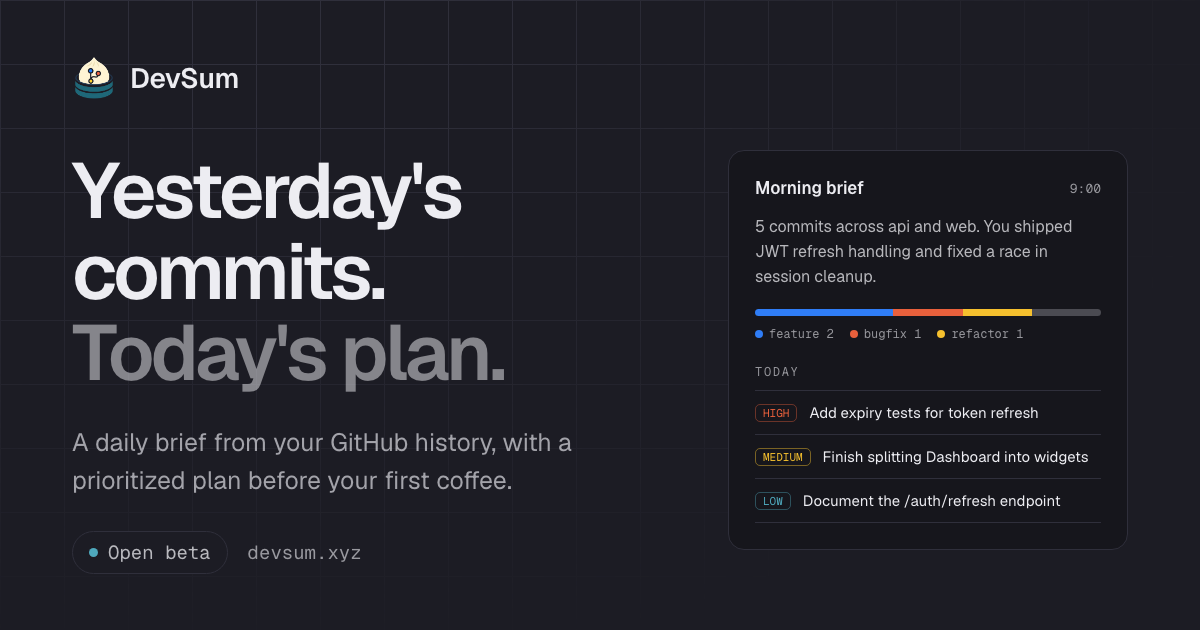
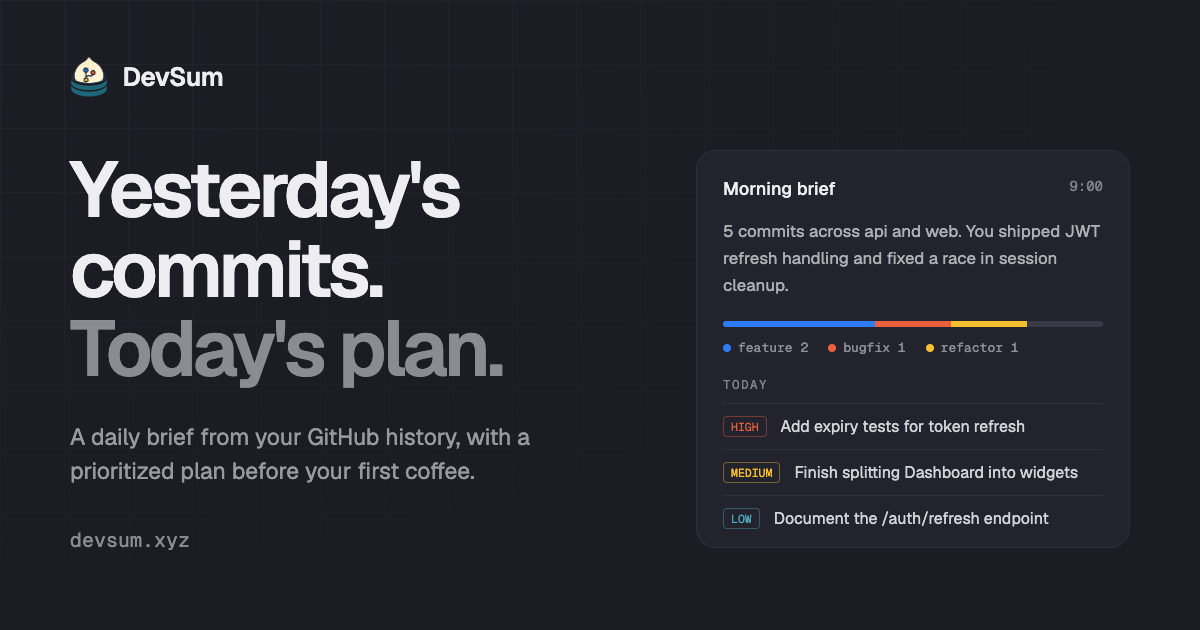
chore(copy): remove open beta and free-to-use language
Drops the hero badge, footer label and pricing box that framed DevSum as a free beta, softens the Terms availability wording, and regenerates the social preview image without the beta pill.

diff --git a/frontend/src/components/Landing.jsx b/frontend/src/components/Landing.jsx
@@ -223,7 +223,7 @@ const Landing = ({ isAuthenticated = false }) => (
         <div className='relative mx-auto max-w-6xl px-6 pt-24 pb-20 text-center md:pt-32'>
           <p className='mx-auto inline-flex items-center gap-2 rounded-full border border-line bg-canvas px-3 py-1 font-geist-mono text-xs text-fg/70'>
             <span className='h-1.5 w-1.5 rounded-full bg-steam' />
-            Open beta · Free to use
+            Read-only GitHub access
           </p>
           <h1 className='mx-auto mt-6 max-w-4xl text-5xl font-semibold tracking-[-0.04em] text-balance md:text-7xl'>
             Yesterday&apos;s commits.
@@ -431,9 +431,9 @@ const Landing = ({ isAuthenticated = false }) => (
           </ol>
 
           <div className='mt-6 border border-line px-8 py-6'>
-            <p className='font-semibold tracking-tight'>Free during open beta</p>
+            <p className='font-semibold tracking-tight'>Your OpenAI key, your usage</p>
             <p className='mt-1 text-sm leading-6 text-fg/65'>
-              You bring your own OpenAI API key, so you pay OpenAI directly for your own usage. DevSum adds no charge.
+              Analysis runs on your own OpenAI API key, so model usage is billed by OpenAI directly to your account.
             </p>
           </div>
         </div>

diff --git a/frontend/src/components/SiteFooter.jsx b/frontend/src/components/SiteFooter.jsx
@@ -50,10 +50,6 @@ const SiteFooter = ({ onLanding = false }) => (
 
       <div className='mt-14 flex flex-col gap-2 border-t border-line pt-6 text-xs text-fg/60 sm:flex-row sm:items-center sm:justify-between'>
         <span>© {new Date().getFullYear()} DevSum</span>
-        <span className='inline-flex items-center gap-2 font-geist-mono'>
-          <span className='h-1.5 w-1.5 rounded-full bg-steam' aria-hidden='true' />
-          Open beta
-        </span>
       </div>
     </div>
   </footer>

diff --git a/frontend/src/components/LegalPages.jsx b/frontend/src/components/LegalPages.jsx
@@ -159,8 +159,8 @@ export const TermsPage = () => (
   <LegalLayout title='Terms of Service'>
     <Section title='Using DevSum'>
       <p>
-        By signing in to DevSum you agree to these terms. DevSum is an open beta. Features can change, and the service can be unavailable or
-        stop at any time.
+        By signing in to DevSum you agree to these terms. Features can change, and the service can be unavailable or
+        discontinued at any time.
       </p>
     </Section>
 
